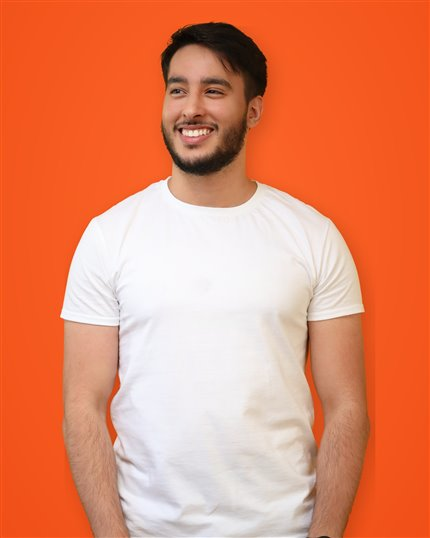
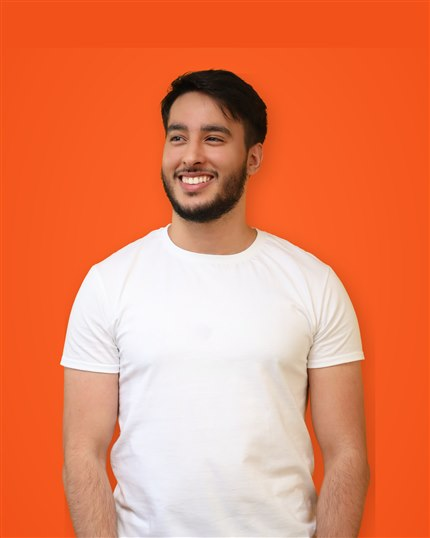
Retire la photo du héros accueil, corrige les cadrages
La maquette source ne montre la photo qu'au bloc 'Qui je suis' et sur la
page à propos, pas dans le héros de l'accueil. Ajoute aussi de la marge
au-dessus de la tête (fond débordé, même couleur) et un cadrage 'pleine
hauteur' dédié pour à propos, moins serré que celui de l'accueil.

diff --git a/index.html b/index.html
@@ -83,26 +83,21 @@
 
   <main id="contenu">
 
+    <!-- Héros texte seul, sans photo : conforme à la maquette source, qui ne
+         montre la photo qu'au bloc « Qui je suis » et sur la page à propos. -->
     <section class="hero conteneur">
-      <div class="grid--split">
-        <div>
-          <p class="label">Développeur web freelance · Charleroi</p>
-          <h1>Un site qui fait venir des clients.</h1>
-          <p class="lead">Pas un site « qui fait joli ». Un site que vos clients comprennent en 3 secondes, qui marche sur leur téléphone, et qui leur donne envie de vous appeler. Pour les commerçants, les artisans et les PME.</p>
-          <div class="hero-actions">
-            <a class="btn btn--primary" href="/contact.html">Demander un devis</a>
-            <a class="btn btn--outline" href="#travail">Voir mon travail</a>
-          </div>
-          <ul class="hero-meta">
-            <li>Prix fixe, annoncé avant de commencer</li>
-            <li>Réponse sous 24 h</li>
-            <li>Facturation via Smart, en règle</li>
-          </ul>
-        </div>
-        <div class="hero-photo">
-          <img src="assets/yassine-430.jpg" srcset="assets/yassine-430.jpg 430w, assets/yassine-900.jpg 900w" sizes="(max-width: 900px) 90vw, 430px" alt="Yassine Boukamir, développeur web" width="430" height="538">
-        </div>
+      <p class="label">Développeur web freelance · Charleroi</p>
+      <h1>Un site qui fait venir des clients.</h1>
+      <p class="lead">Pas un site « qui fait joli ». Un site que vos clients comprennent en 3 secondes, qui marche sur leur téléphone, et qui leur donne envie de vous appeler. Pour les commerçants, les artisans et les PME.</p>
+      <div class="hero-actions">
+        <a class="btn btn--primary" href="/contact.html">Demander un devis</a>
+        <a class="btn btn--outline" href="#travail">Voir mon travail</a>
       </div>
+      <ul class="hero-meta">
+        <li>Prix fixe, annoncé avant de commencer</li>
+        <li>Réponse sous 24 h</li>
+        <li>Facturation via Smart, en règle</li>
+      </ul>
     </section>
 
     <section class="section bg-noir">

diff --git a/a-propos.html b/a-propos.html
@@ -62,8 +62,8 @@
             <a class="btn btn--outline" href="/services.html">Voir les services</a>
           </div>
         </div>
-        <div class="hero-photo">
-          <img src="assets/yassine-430.jpg" srcset="assets/yassine-430.jpg 430w, assets/yassine-900.jpg 900w" sizes="(max-width: 900px) 90vw, 430px" alt="Yassine Boukamir, développeur web" width="430" height="538">
+        <div class="hero-photo hero-photo--haute">
+          <img src="assets/yassine-a-propos-480.jpg" srcset="assets/yassine-a-propos-480.jpg 480w, assets/yassine-a-propos-960.jpg 960w" sizes="(max-width: 900px) 90vw, 480px" alt="Yassine Boukamir, développeur web" width="480" height="720">
         </div>
       </div>
     </section>

diff --git a/css/style.css b/css/style.css
@@ -351,6 +351,10 @@ h3, .h3 { font: var(--h3); }
   object-fit: cover;
 }
 
+/* Page à propos : la maquette veut une photo "pleine hauteur", moins serrée
+   que celle de l'accueil — un cadrage à part, pas le même recadré en CSS. */
+.hero-photo--haute img { aspect-ratio: 2/3; }
+
 /* ==========================================================================
    SECTIONS
    ========================================================================== */
